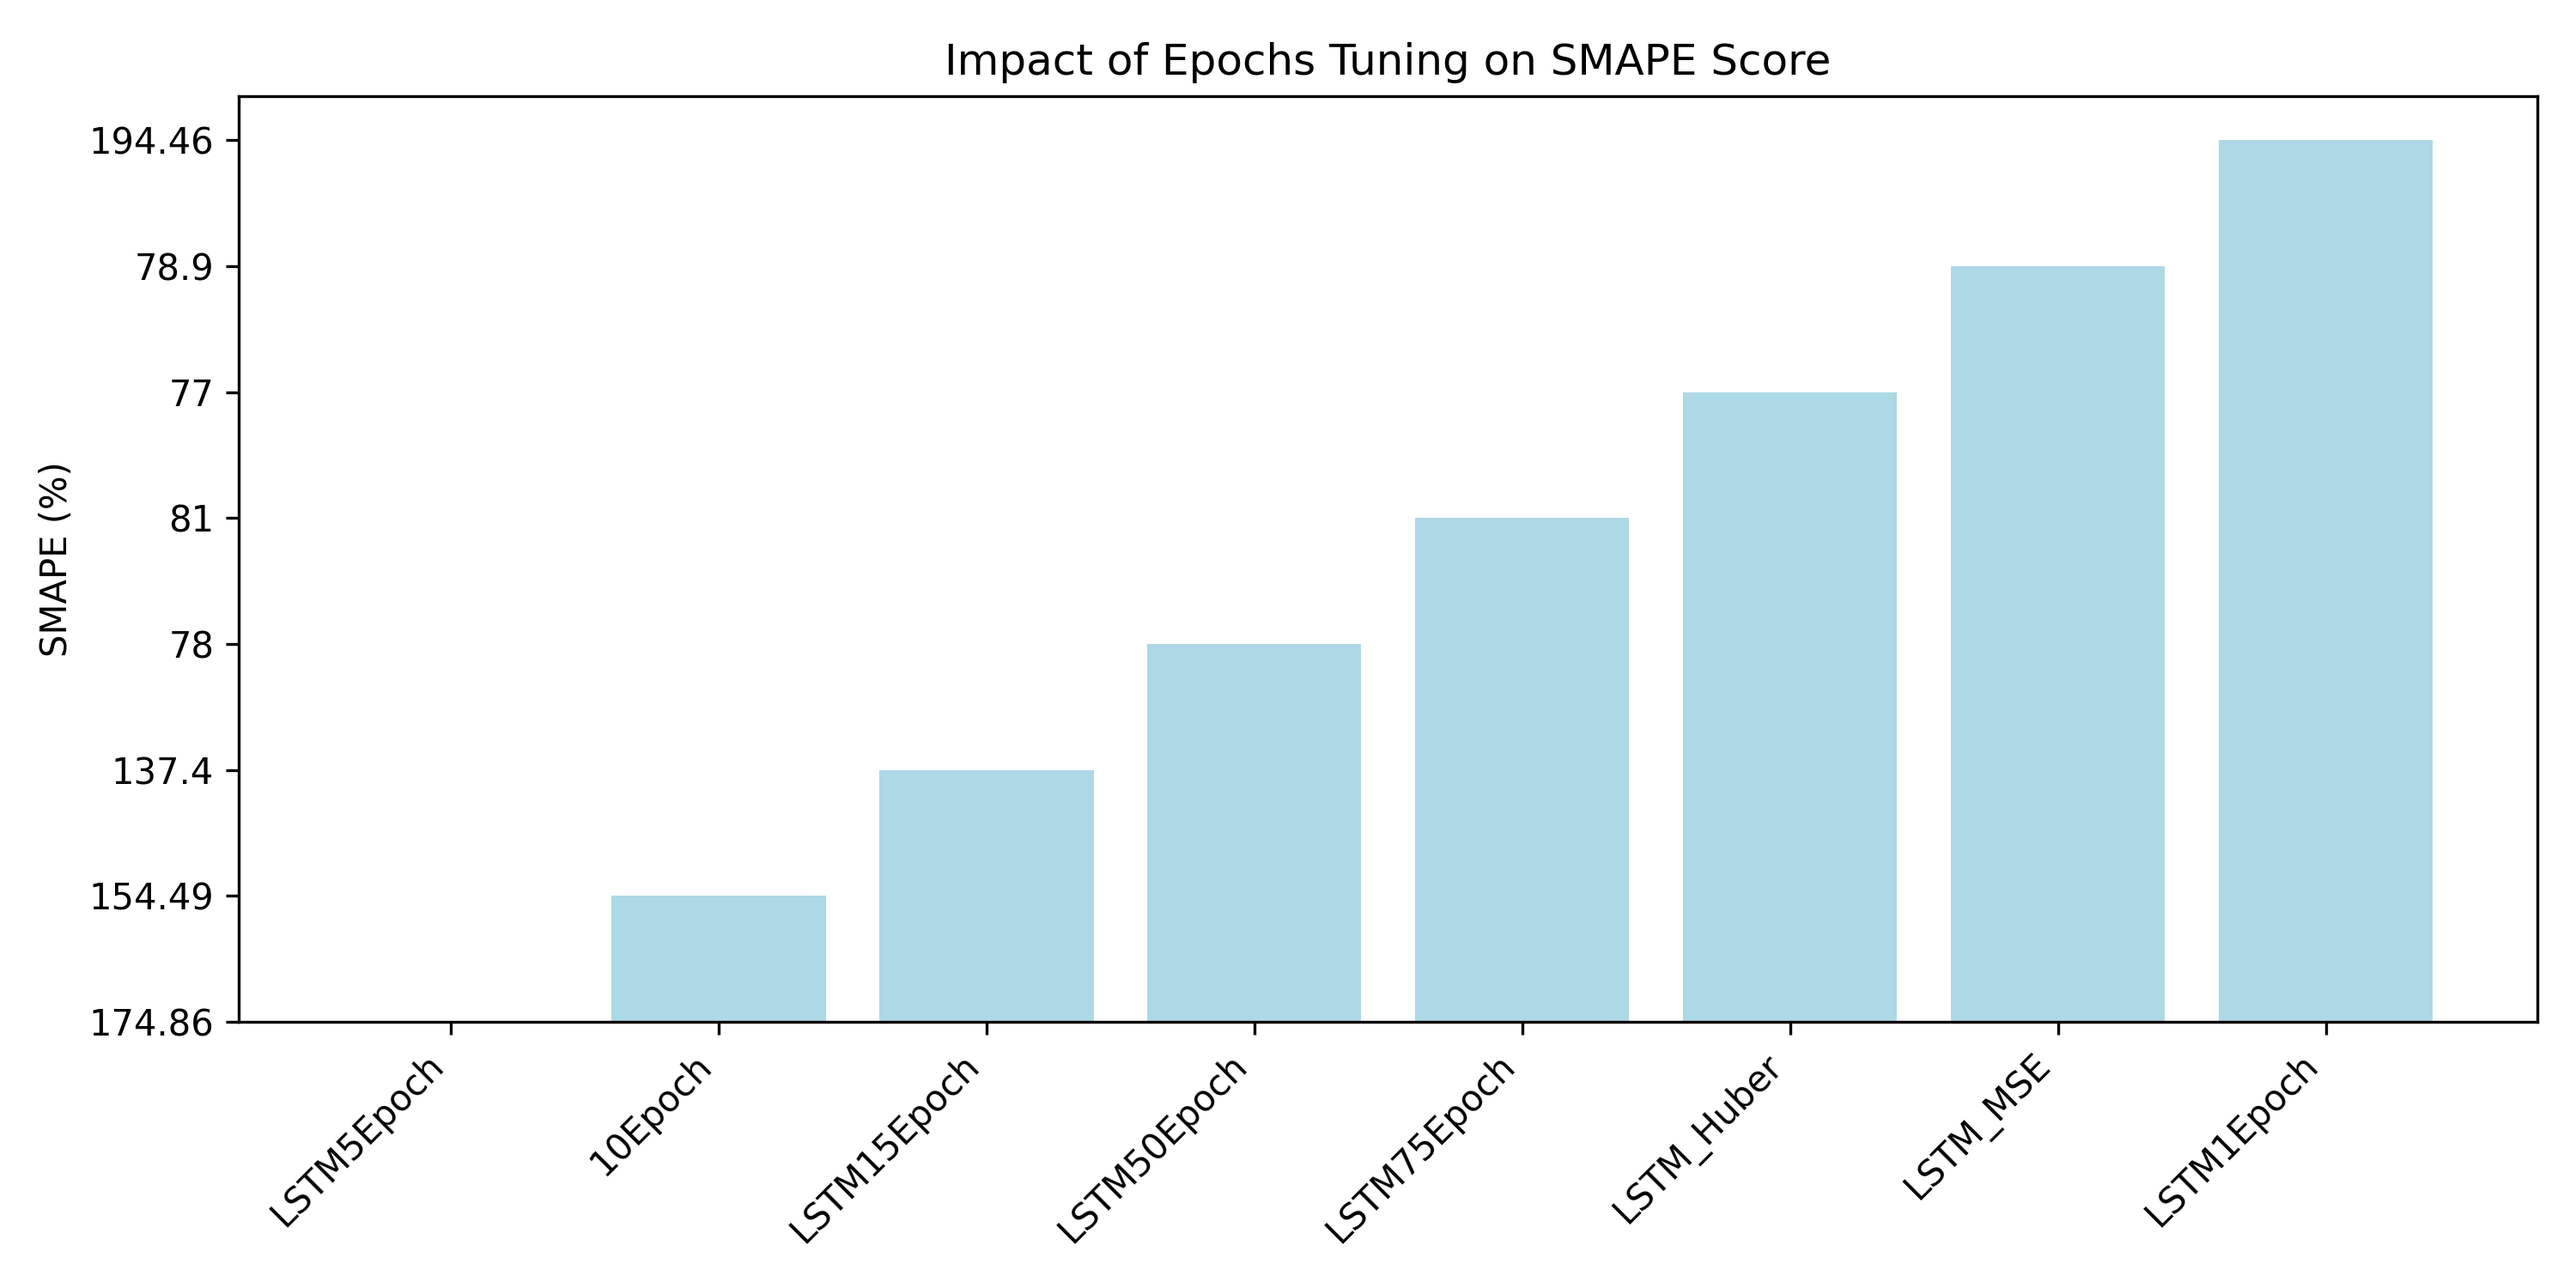
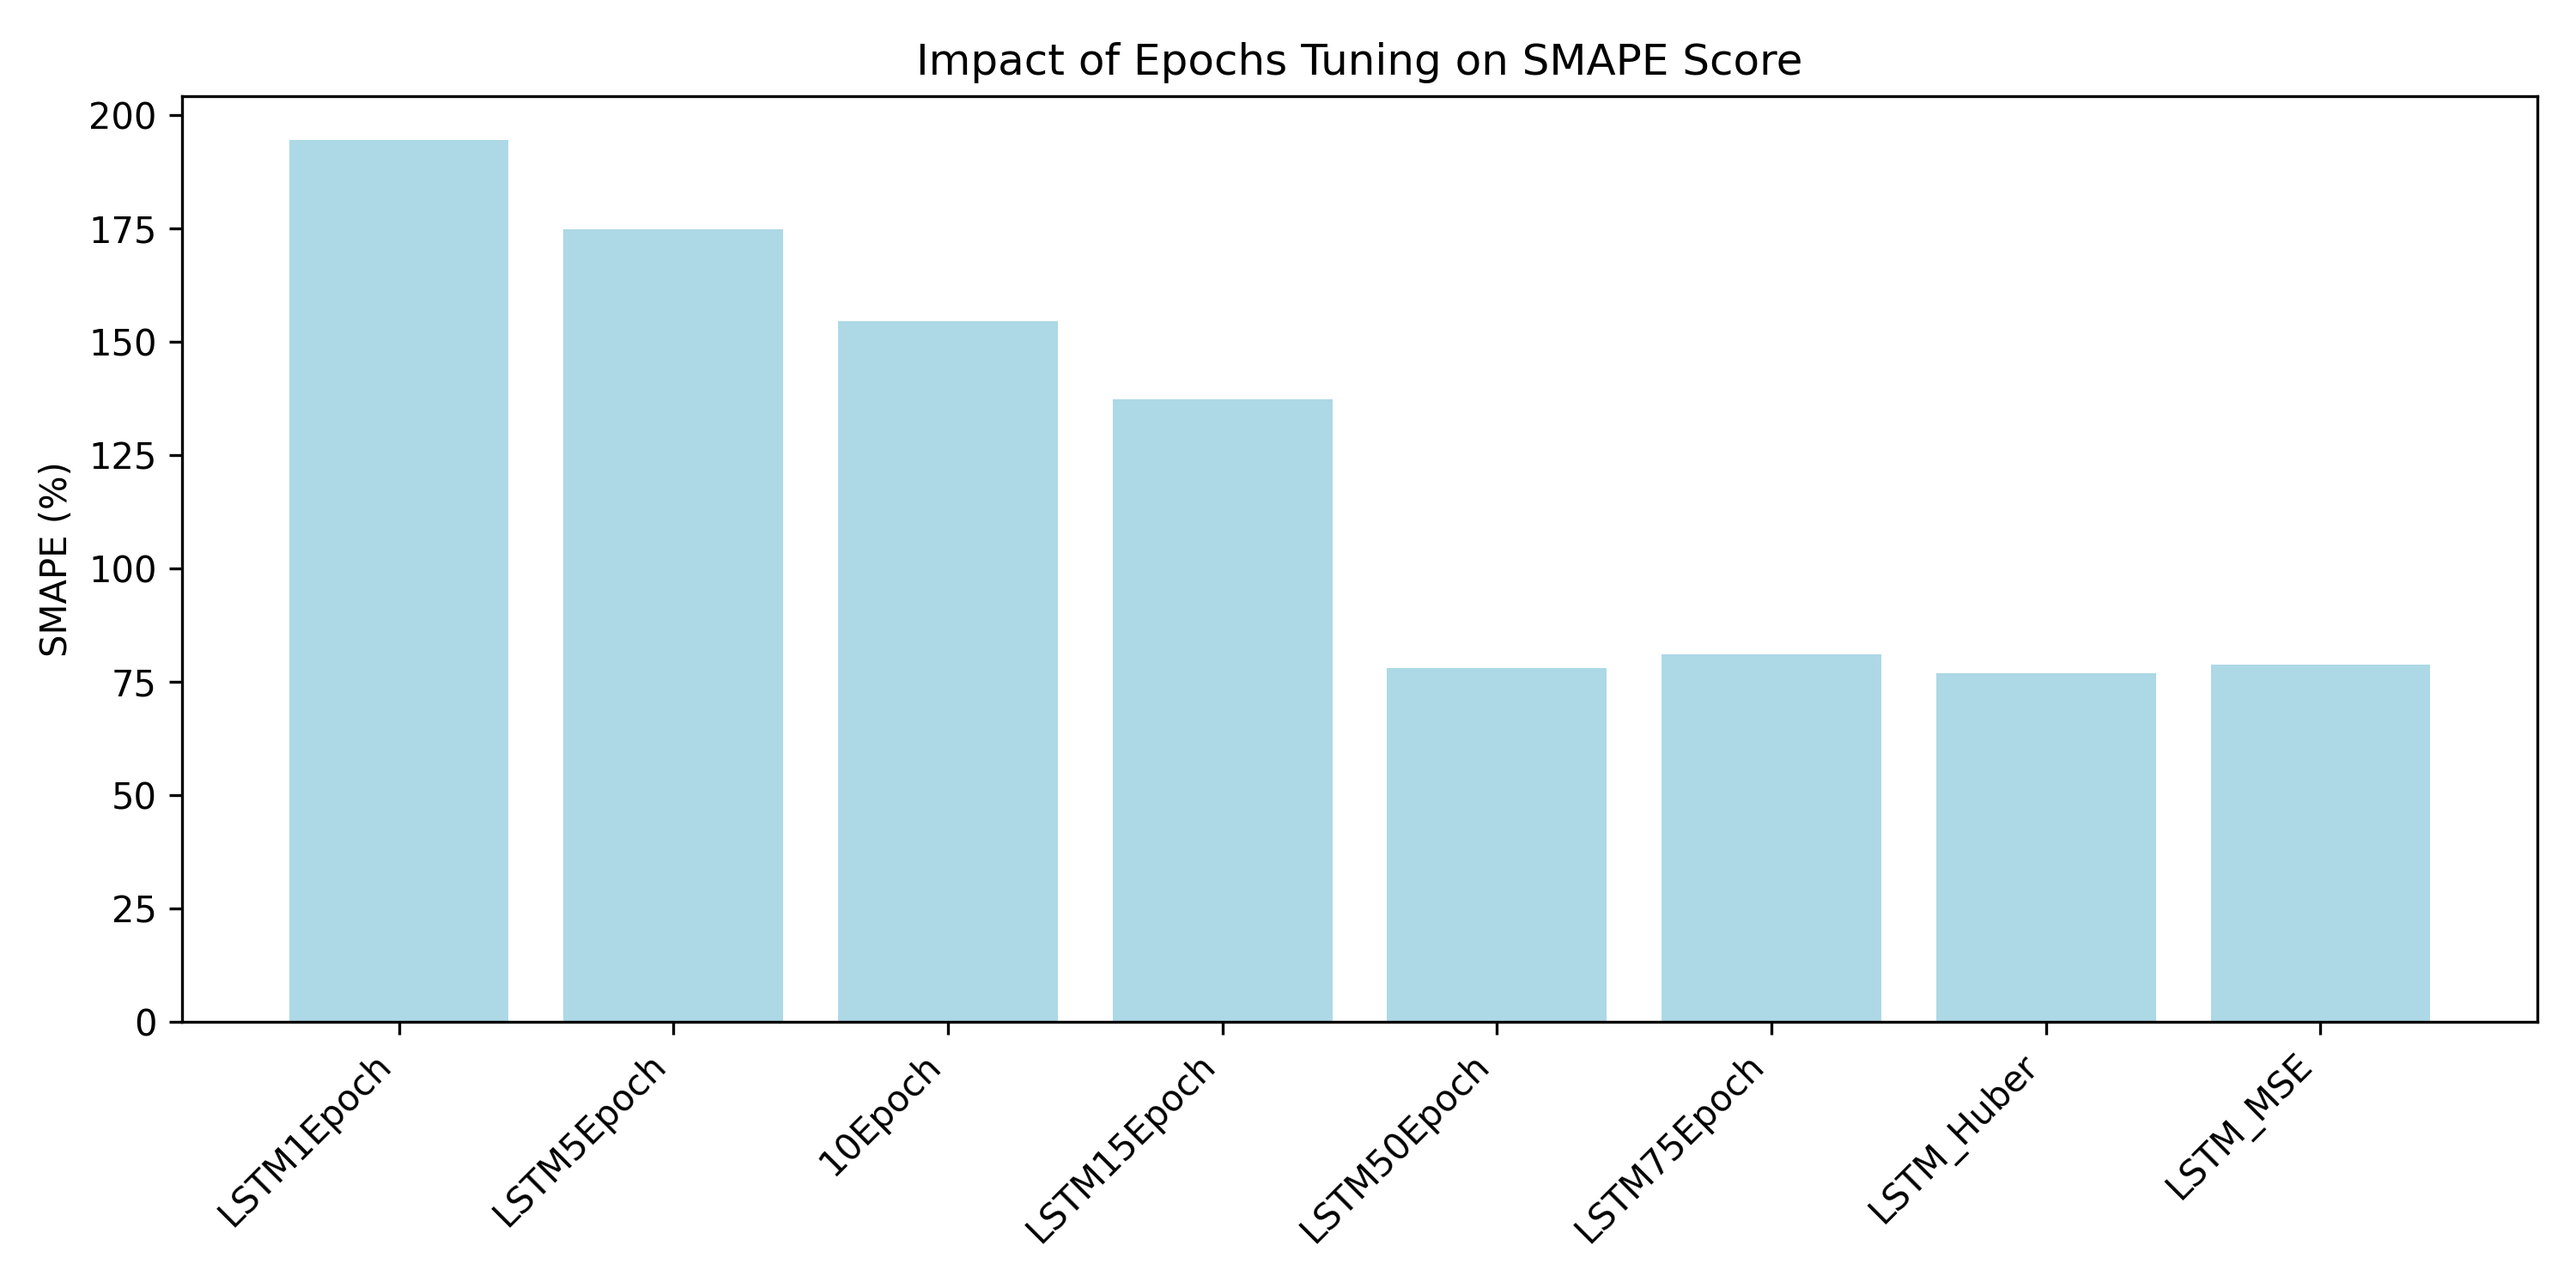
fixed picture issue

diff --git a/src/pictures.py b/src/pictures.py
@@ -4,19 +4,23 @@ import matplotlib.pyplot as plt
 timestamps = ['Before tuning', 'Intitial GridSearch', 'Optimized Parameters', 'Added Year']
 smape_values = [98.9426, 70.0413, 60.1560, 58.500]
 
-epochsName = [ 'LSTM5Epoch', '10Epoch', 'LSTM15Epoch', 'LSTM50Epoch', 'LSTM75Epoch', 'LSTM_Huber', 'LSTM_MSE', 'LSTM1Epoch']
-score = ['174.86', '154.49', '137.4', '78', '81', '77', '78.9', '194.46']
+epochsName = ['LSTM1Epoch', 'LSTM5Epoch', '10Epoch', 'LSTM15Epoch', 'LSTM50Epoch', 'LSTM75Epoch', 'LSTM_Huber', 'LSTM_MSE']
+score = [194.46, 174.86, 154.49, 137.4, 78, 81, 77, 78.9]
 
 # Plot SMAPE
 plt.figure(figsize=(10, 5))
 plt.bar(epochsName, score, color='lightblue')
+# plt.bar(timestamps, smape_values, color='lightgreen')
+
 plt.title('Impact of Epochs Tuning on SMAPE Score')
+# plt.title('Impact of Hyperparameter Tuning on SMAPE Score')
 plt.ylabel('SMAPE (%)')
 plt.gca().set_ylim(bottom=0)
 plt.xticks(rotation=45, ha='right')
 plt.tight_layout()
 # Save the graph to a file
 plt.savefig('docs/lstm_epoch_tuning.png', format='png', dpi=300)
+# plt.savefig('docs/smape_tuning.png', format='png', dpi=300)
 
 # Show the graph
 plt.show()
